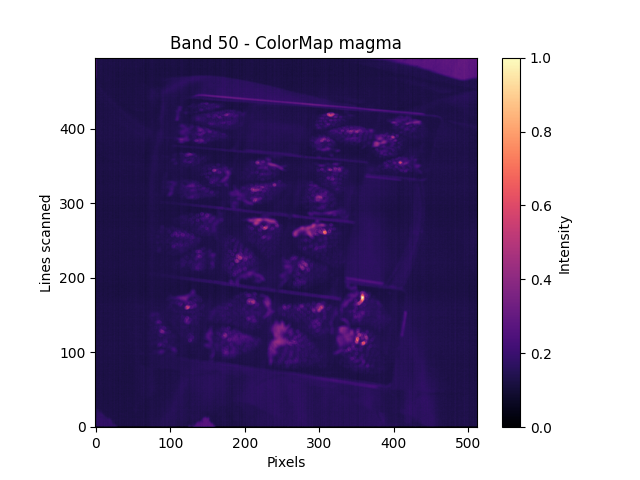
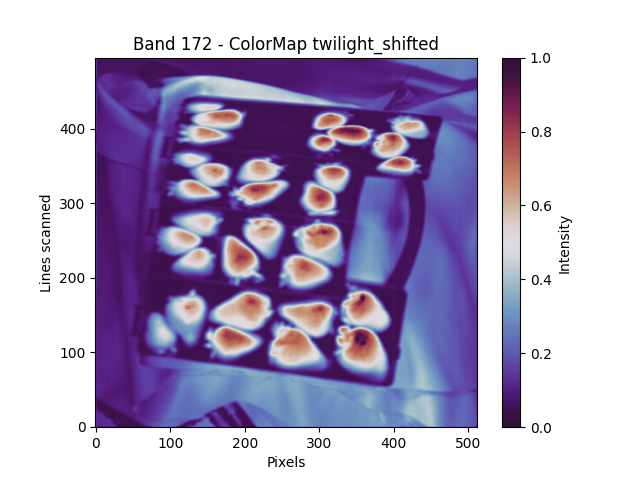
extractor is working fine we can detect strawberries

diff --git a/cvtry.py b/cvtry.py
@@ -2,23 +2,41 @@ import cv2 as cv
 import numpy as np
 import matplotlib.pyplot as plt
 
-
-im = cv.imread('temp_plot.png')
+im = cv.imread('Pictures/861.14 - 172_twilight_shifted.png')
 assert im is not None, "file could not be read, check with os.path.exists()"
+
+# Convert the image to grayscale
 imgray = cv.cvtColor(im, cv.COLOR_BGR2GRAY)
-ret, thresh = cv.threshold(imgray, 85, 255, 0)
+ret, thresh = cv.threshold(imgray, 80, 255, 0)
 
 contours, hierarchy = cv.findContours(thresh, cv.RETR_TREE, cv.CHAIN_APPROX_SIMPLE)
 
+output_image = np.zeros_like(im)
+
+# Create a list to store selected contours
+selected_contours = []
+
+# Iterate over all contours
 for cnt in contours:
-    approx = cv.approxPolyDP(cnt, .03 * cv.arcLength(cnt, True), True)
-    if len(approx)==8:
-        largest_contour = max(contours, key=cv.contourArea)
-
-        if cv.contourArea(largest_contour) > 1000:
-            cv.drawContours(im, [cnt], 0, (220, 152, 91), -1)
-
-cv.imshow('image',im)
+    # Calculate the contour area
+    area = cv.contourArea(cnt)
+    
+    # Approximate the contour to a polygon
+    approx = cv.approxPolyDP(cnt, 0.03 * cv.arcLength(cnt, True), True)
+    
+    # Get the number of corners
+    num_corners = len(approx)
+    
+    # Filter based on area and exclude contours with 3 corners (triangles)
+    if area > 10000 and area < 35000 and num_corners != 3:
+        # Add the contour to the list of selected contours
+        selected_contours.append(cnt)
+        
+        print(f"Area: {area}")
+        print(f"Number of corners: {num_corners}")
+        
+# drawing the contours and displaying image
+cv.drawContours(output_image, selected_contours, -1, (220, 152, 91), -1)
+cv.imshow('Selected Contours', output_image)
 cv.waitKey(0)
-cv.waitKey(1000)
 cv.destroyAllWindows()

diff --git a/extractor.py b/extractor.py
@@ -52,7 +52,7 @@ def extract_image(ui_context, band, cmap):
         ui_context["log_func"](LogLevel.ERROR,f"Datacube file not found.")
         
 def save_image(ui_context, band , cmap):
-    temp_image_path = "temp_plot.png"
+    temp_image_path = "temp_plot_clean.png"
     img = plt.imread(temp_image_path)
     os.makedirs('Pictures', exist_ok=True)
     
